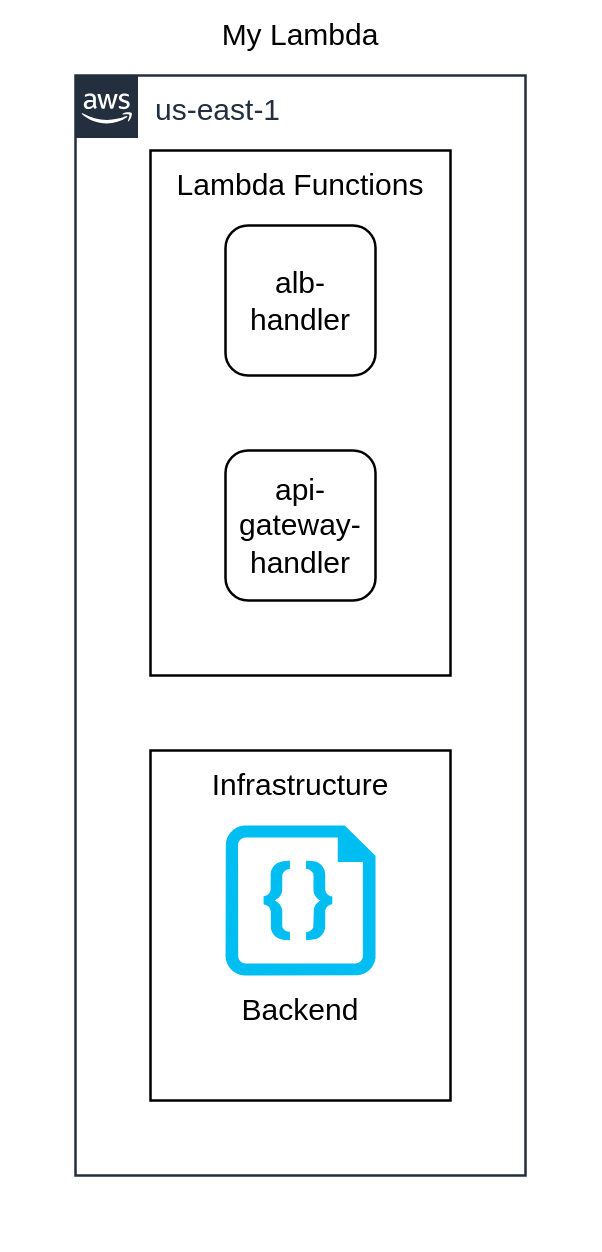
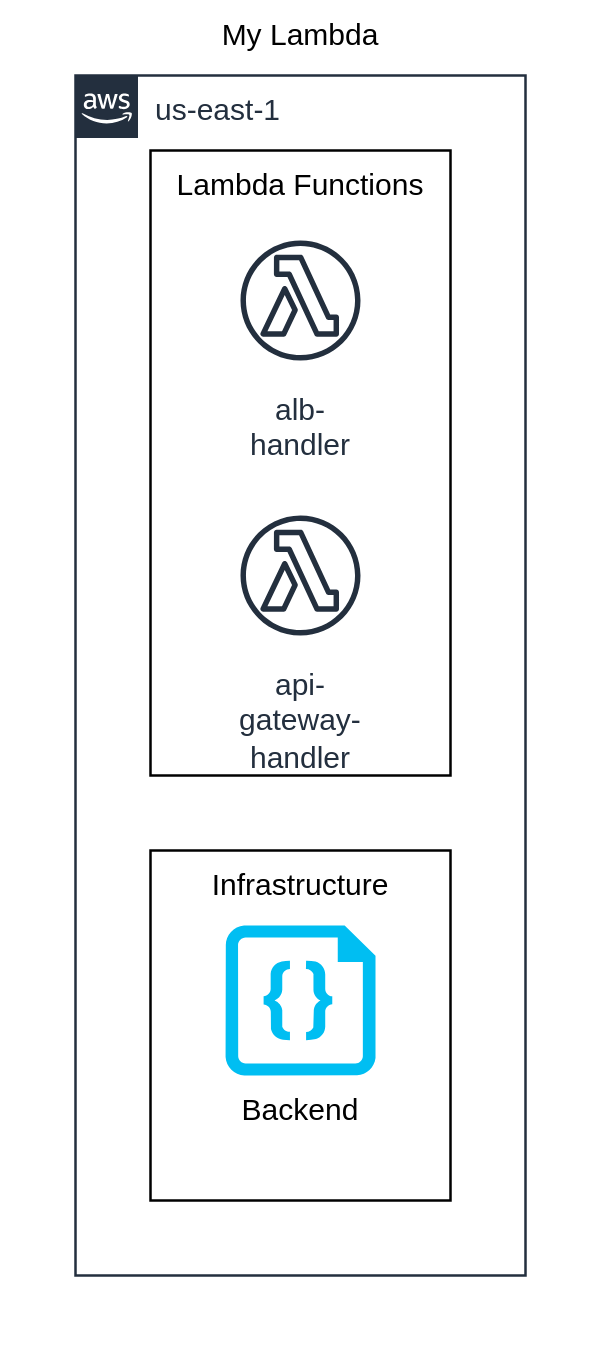
Improve doc for lambda

diff --git a/core/tf-aws/src/composites/lambda/types.ts b/core/tf-aws/src/composites/lambda/types.ts
@@ -29,13 +29,17 @@ export function parseLambdaFunctions(
     renderOptions,
     lambdasFolder,
   )
-
   for (
     const [name, lambda] of Object.entries(lambdaFunctions) as [string, any]
   ) {
     if (typeof lambda !== 'object') {
       lambdaFunctions[name] = {}
     }
+  }
+
+  for (
+    const [name, lambda] of Object.entries(lambdaFunctions) as [string, any]
+  ) {
     lambda.function_name ??= name
     lambda._title ??= lambda.function_name
     if (!lambda.image_uri && !lambda.s3_bucket) {
@@ -43,7 +47,6 @@ export function parseLambdaFunctions(
     }
   }
   const validatedLambdaFunctions = LambdaFunctionsSchema.parse(lambdaFunctions)
-  console.log(validatedLambdaFunctions)
   return validatedLambdaFunctions
 }
 
@@ -121,25 +124,30 @@ function initLambdaFunctions(
   lambdasFolder: string,
 ) {
   let lambdaFunctions = lambdas || renderOptions.lambdas
-  if (!lambdaFunctions) {
-    if (existsSync(lambdasFolder)) {
+  if (existsSync(lambdasFolder)) {
+    if (!lambdaFunctions) {
       lambdaFunctions = {}
-      Deno.readDirSync(lambdasFolder).toArray().sort((a, b) =>
-        a.name.localeCompare(b.name)
-      ).forEach((dirEntry) => {
-        if (dirEntry.isFile && dirEntry.name.endsWith('.ts')) {
-          const lambdaName = dirEntry.name.replace('.ts', '')
+    }
+    Deno.readDirSync(lambdasFolder).toArray().sort((a, b) =>
+      a.name.localeCompare(b.name)
+    ).forEach((dirEntry) => {
+      if (dirEntry.isFile && dirEntry.name.endsWith('.ts')) {
+        const lambdaName = dirEntry.name.replace('.ts', '')
+        if (!lambdaFunctions[lambdaName]) {
           lambdaFunctions[lambdaName] = {}
-        } else if (
-          dirEntry.isDirectory &&
-          existsSync(`${lambdasFolder}/${dirEntry.name}/index.ts`)
-        ) {
+        }
+      } else if (
+        dirEntry.isDirectory &&
+        existsSync(`${lambdasFolder}/${dirEntry.name}/index.ts`)
+      ) {
+        if (!lambdaFunctions[dirEntry.name]) {
           lambdaFunctions[dirEntry.name] = {}
         }
-      })
-    } else {
-      throw new DinghyError(`No lambda functions configured!`)
-    }
+      }
+    })
+  }
+  if (!lambdaFunctions) {
+    throw new DinghyError(`No lambda functions configured!`)
   }
   return lambdaFunctions
 }

diff --git a/sites/www/src/docs/examples/show-cases/typescript-lambda/src/lambdas/api-gateway-handler.ts b/sites/www/src/docs/examples/show-cases/typescript-lambda/src/lambdas/api-gateway-handler.ts
@@ -9,26 +9,17 @@ export const handler: Handler = async (
 ): Promise<APIGatewayProxyResult> => {
   const message = 'Hello World from TypeScript!'
   const response = await fetch('https://httpbin.org/get')
-  const data = await response.json()
-  console.log(data.headers)
+  const httpbin = await response.json()
+  const body = JSON.stringify({
+    message,
+    event,
+    httpbin,
+  })
 
   return {
-    'isBase64Encoded': false,
-    'statusCode': 200,
-    'statusDescription': '200 OK',
-    'headers': { 'Content-Type': 'application/json' },
-    'body': JSON.stringify({
-      message: message,
-      input: event,
-      httpbin: data,
-    }),
+    isBase64Encoded: false,
+    statusCode: 200,
+    headers: { 'Content-Type': 'application/json' },
+    body,
   }
-  // return {
-  //   statusCode: 200,
-  //   body: JSON.stringify({
-  //     message: message,
-  //     input: event,
-  //     httpbin: data,
-  //   }),
-  // }
 }

diff --git a/sites/www/src/docs/examples/show-cases/typescript-lambda/src/lambdas/alb-handler.ts b/sites/www/src/docs/examples/show-cases/typescript-lambda/src/lambdas/alb-handler.ts
@@ -6,17 +6,17 @@ export const handler: ALBHandler = async (
   const message = 'Hello World from TypeScript!'
   const response = await fetch('https://httpbin.org/get')
   const httpbin = await response.json()
-  console.log(httpbin.headers)
+  const body = JSON.stringify({
+    message,
+    event,
+    httpbin,
+  })
 
   return {
-    'isBase64Encoded': false,
-    'statusCode': 200,
-    'statusDescription': '200 OK',
-    'headers': { 'Content-Type': 'application/json' },
-    'body': JSON.stringify({
-      message,
-      event,
-      httpbin,
-    }),
+    isBase64Encoded: false,
+    statusCode: 200,
+    statusDescription: '200 OK',
+    headers: { 'Content-Type': 'application/json' },
+    body,
   }
 }

diff --git a/core/tf-aws/src/composites/lambda/LambdaFunctions.tsx b/core/tf-aws/src/composites/lambda/LambdaFunctions.tsx
@@ -9,6 +9,8 @@ import { AwsLambdaFunction } from '@dinghy/tf-aws/serviceLambda'
 import { useAwsIamRole } from '../../services/iam/AwsIamRole.tsx'
 import { DataArchiveFile, useArchiveFile } from '@dinghy/tf-common'
 import { IamRole } from '../iam/IamRole.tsx'
+import { extendStyle } from '@dinghy/base-components'
+import { LAMBDA_FUNCTION } from '@dinghy/diagrams/entitiesAws18Compute'
 
 export function LambdaFunctions(
   { _components, children, ...props }: NodeProps,
@@ -45,6 +47,7 @@ export function LambdaFunctions(
     return (
       <LambdaFunctionComponent
         _display='entity'
+        _style={extendStyle(props, LAMBDA_FUNCTION)}
         {..._lambda}
         {...props}
       >

diff --git a/tasks/src/check-projects.ts b/tasks/src/check-projects.ts
@@ -82,6 +82,9 @@ if (import.meta.main) {
   console.log('::group::Generate commands docs')
   await runDenoCmd('tasks', 'run -A src/generate-commands-docs.ts')
   console.log('::endgroup::')
+  console.log('::group::Render examples')
+  await runDenoCmd('tasks', 'run -A src/render-examples.ts --diagram-png false')
+  console.log('::endgroup::')
   await runGitDiff()
   console.log('::group::Check Projects Results')
   console.log(

diff --git a/engine/src/services/aws/runAwscliImageCmd.ts b/engine/src/services/aws/runAwscliImageCmd.ts
@@ -8,7 +8,10 @@ export const runAwscliImageCmd = async (
   args: string[],
 ) => {
   const image = await configGetToolImage('awscli')
-  const envs: Record<string, string> = {}
+  const envs: Record<string, string> = {
+    // Disable pager so output works in the minimal awscli image (no `less` installed)
+    AWS_PAGER: '',
+  }
   if (debug.enabled) {
     envs['AWS_DEBUG'] = 'true'
   }

diff --git a/cli/src/utils/dockerUtils.ts b/cli/src/utils/dockerUtils.ts
@@ -166,7 +166,7 @@ export const runDockerCmd = async (
       '-t',
       ...Object.entries(getDockerEnvs(envs)).flatMap((
         [k, v],
-      ) => ['-e', `'${k}=${(v as string).replace(/'/g, "'\"'\"'")}'`]),
+      ) => ['-e', `${k}=${v}`]),
       ...getDockerMounts(appMounts).flatMap((
         mount,
       ) => ['--volume', `${mount.source}:${mount.target}`]),

diff --git a/engine/src/commands/tf/plan.ts b/engine/src/commands/tf/plan.ts
@@ -34,11 +34,8 @@ export const run = async (args: Args, stackInfo?: any) => {
         stackPath,
         args,
         [
-          'tf',
-          'show',
+          'tf-show-plan',
           format === 'json' ? '-json' : '-no-color',
-          'tf.plan',
-          '>',
           planOutputFile,
         ],
       )

diff --git a/cli/src/utils/cmd.ts b/cli/src/utils/cmd.ts
@@ -61,7 +61,6 @@ const execCmd = async (
     stderr: ioOption,
     all: true,
     cwd: workingDir,
-    shell: true,
     reject: false,
   }
   const result = sync
